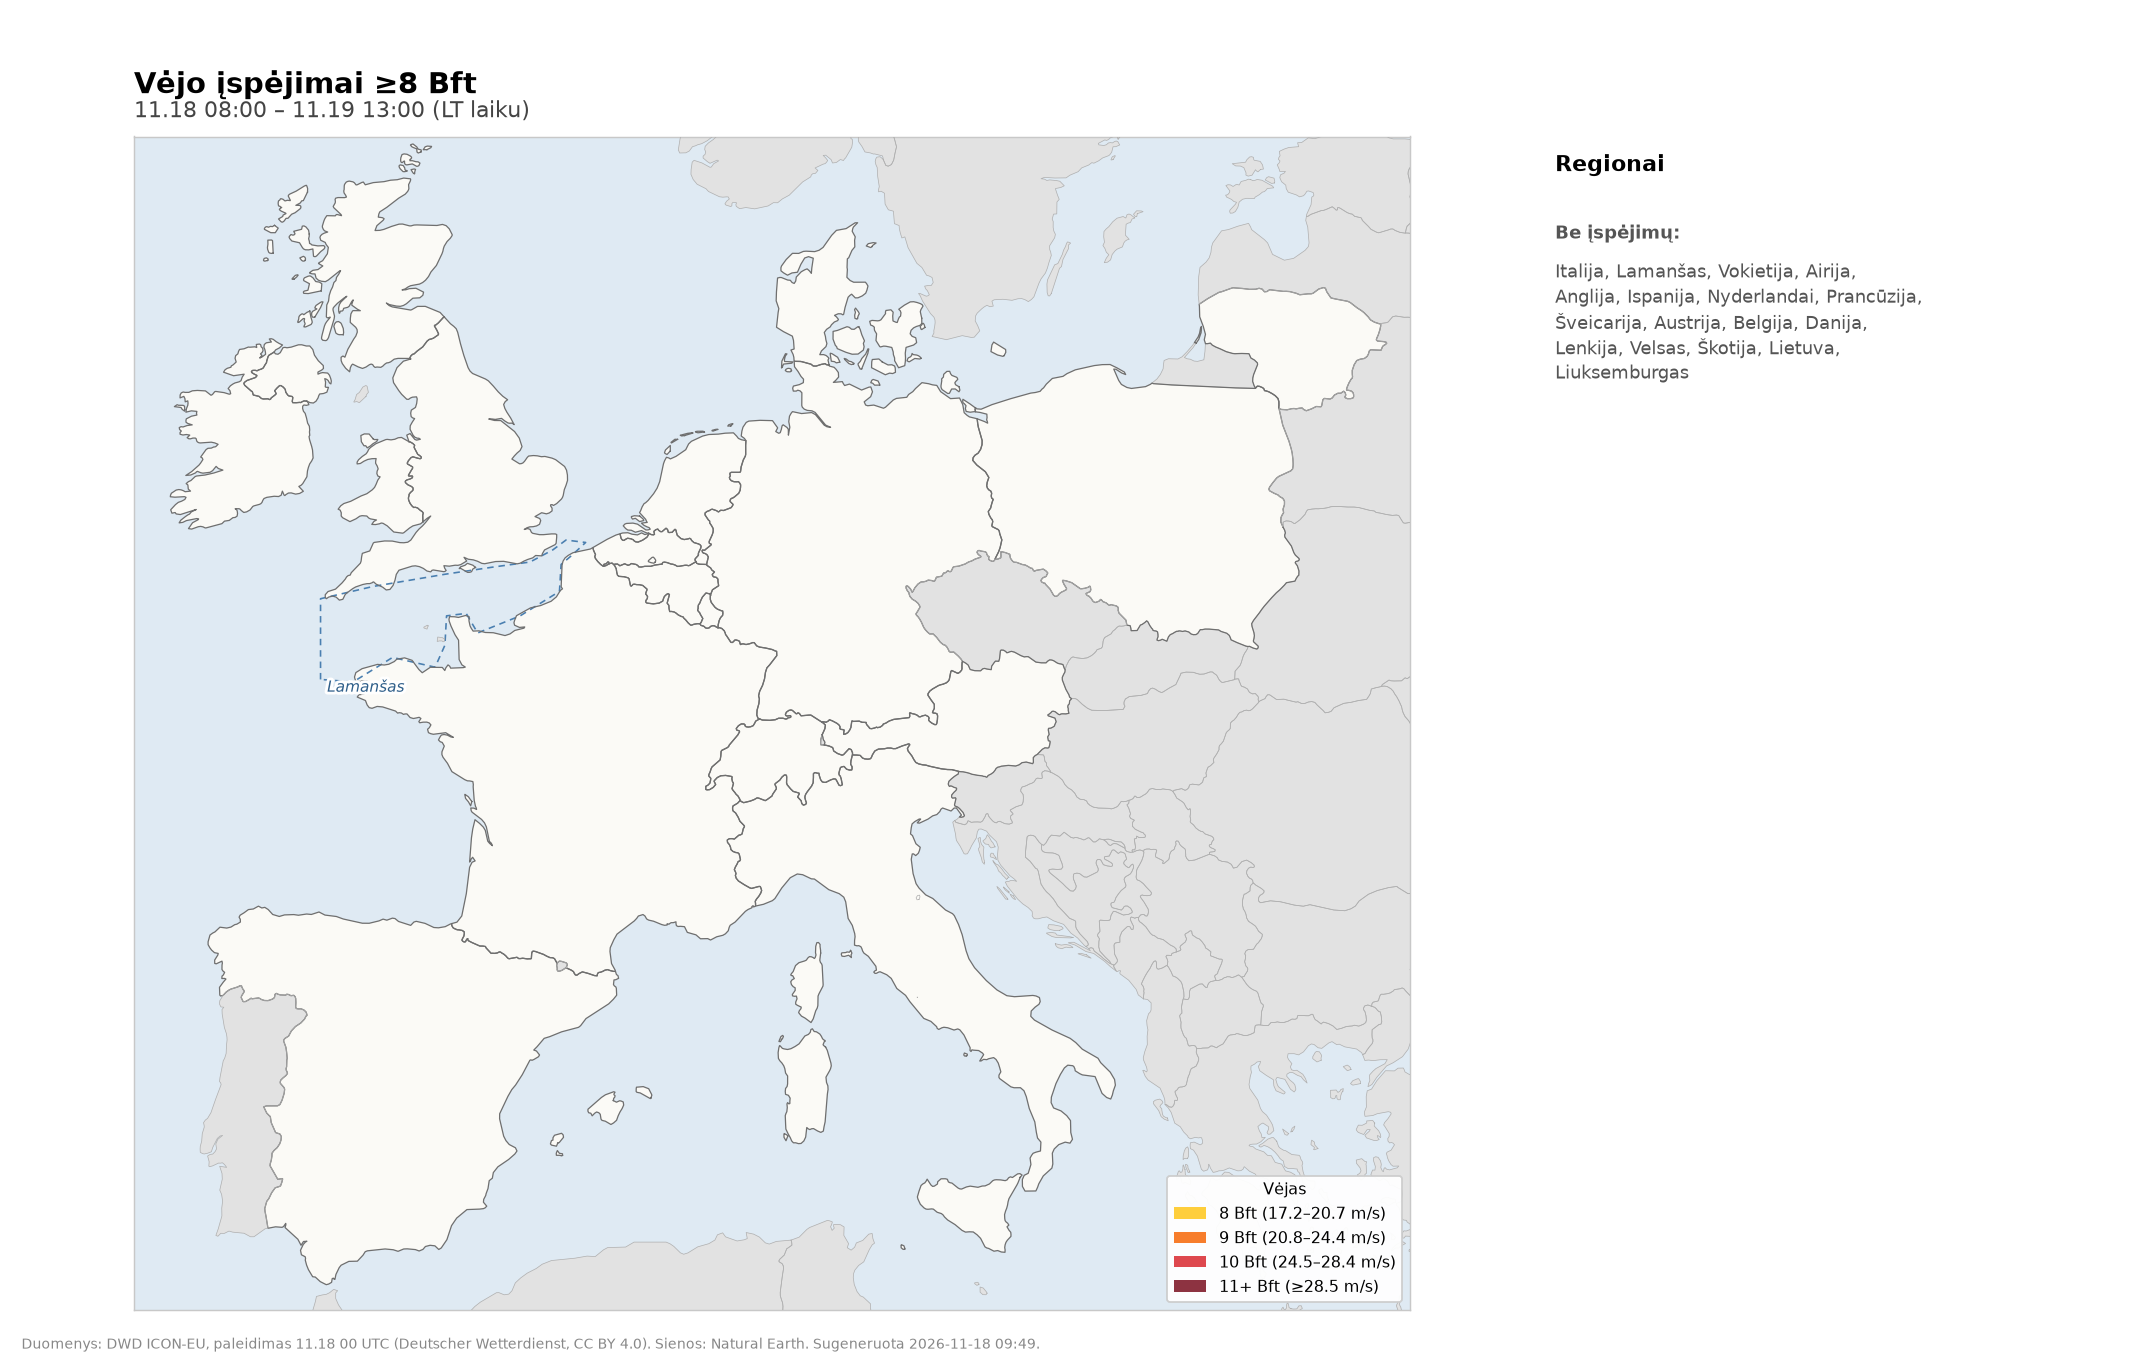
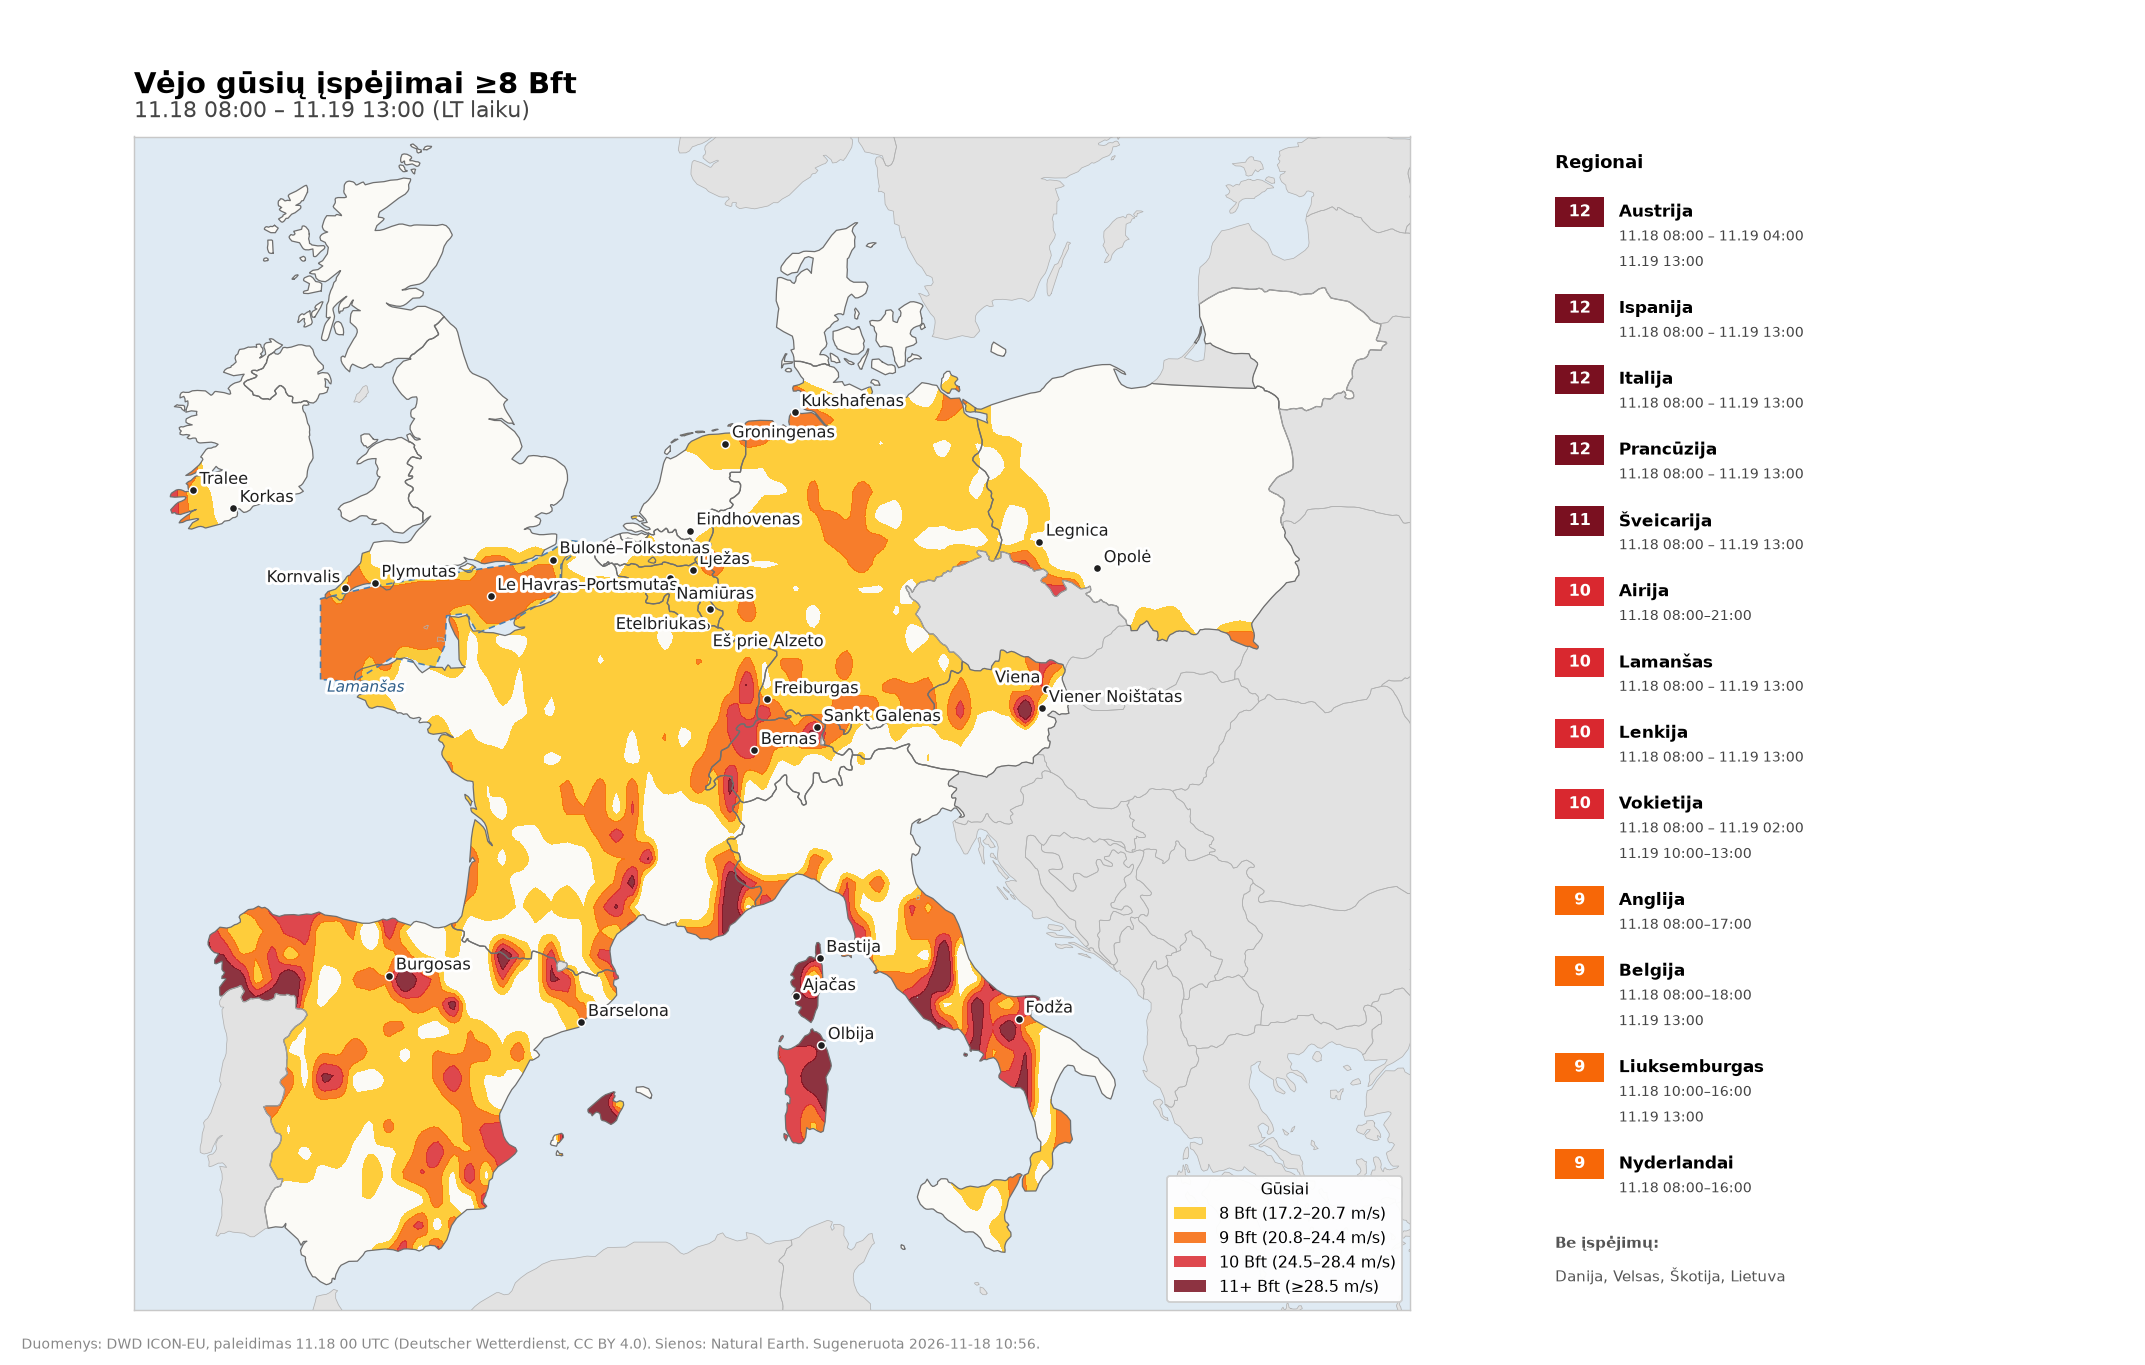
Vėjo įspėjimai 2026-11-18

diff --git a/output/vejo_ispejimai.html b/output/vejo_ispejimai.html
@@ -1,1 +1,1 @@
-<p style="font-family:Arial,sans-serif;font-size:14px"><b>Vėjo įspėjimai ≥8 Bft</b><br>Laikotarpis: 11.18 08:00 – 11.19 13:00 (LT laiku)</p><p style="font-family:Arial,sans-serif">Laikotarpiu vėjas nesieks 8 Bft nė viename regione.</p><p style="font-family:Arial,sans-serif;font-size:11px;color:#888">Duomenys: DWD ICON-EU, paleidimas 11.18 00 UTC (Deutscher Wetterdienst, CC BY 4.0). Sienos: Natural Earth. Sugeneruota 2026-11-18 09:49.</p>
+<p style="font-family:Arial,sans-serif;font-size:14px"><b>Vėjo gūsių įspėjimai ≥8 Bft</b><br>Laikotarpis: 11.18 08:00 – 11.19 13:00 (LT laiku)</p><table style="border-collapse:collapse;font-family:Arial,sans-serif;font-size:13px"><tr style="background:#f3f3f3"><th style="padding:6px 10px;border:1px solid #ddd;text-align:left">Regionas</th><th style="padding:6px 10px;border:1px solid #ddd;text-align:left">Gūsiai</th><th style="padding:6px 10px;border:1px solid #ddd;text-align:left">Laikotarpis</th><th style="padding:6px 10px;border:1px solid #ddd;text-align:left">Vietos</th></tr><tr><td rowspan="1" style="padding:6px 10px;border:1px solid #ddd;font-weight:bold;vertical-align:top">Ispanija</td><td style="padding:6px 10px;border:1px solid #ddd;background:#7a1020;color:#fff;font-weight:bold;text-align:center;white-space:nowrap">12 Bft<br><span style="font-weight:normal;font-size:11px">38 m/s</span></td><td style="padding:6px 10px;border:1px solid #ddd;vertical-align:top">11.18 08:00 – 11.19 13:00 (prasideda anksčiau, tęsiasi ir vėliau)</td><td style="padding:6px 10px;border:1px solid #ddd;vertical-align:top"><b>Ispanija – didžioji dalis</b><br>&nbsp;&nbsp;Barselona – 12 Bft, 11.18 08:00–11.19 13:00<br>&nbsp;&nbsp;Burgosas – 12 Bft, 11.18 08:00–11.19 13:00<br>&nbsp;&nbsp;Ourensas – 12 Bft, 11.18 08:00–11.19 13:00<br>&nbsp;&nbsp;Soria – 12 Bft, 11.18 08:00–11.19 13:00<br>&nbsp;&nbsp;Uesca – 12 Bft, 11.18 08:00–11.19 13:00<br>&nbsp;&nbsp;Kuenka – 11 Bft, 11.18 08:00–11.19 13:00<br>&nbsp;&nbsp;+32 kitos vietos</td></tr><tr><td rowspan="1" style="padding:6px 10px;border:1px solid #ddd;font-weight:bold;vertical-align:top">Prancūzija</td><td style="padding:6px 10px;border:1px solid #ddd;background:#7a1020;color:#fff;font-weight:bold;text-align:center;white-space:nowrap">12 Bft<br><span style="font-weight:normal;font-size:11px">37 m/s</span></td><td style="padding:6px 10px;border:1px solid #ddd;vertical-align:top">11.18 08:00 – 11.19 13:00 (prasideda anksčiau, tęsiasi ir vėliau)</td><td style="padding:6px 10px;border:1px solid #ddd;vertical-align:top"><b>Pietryčių Prancūzija</b><br>&nbsp;&nbsp;Ajačas (Korsika) – 12 Bft, 11.18 08:00–11.19 13:00<br>&nbsp;&nbsp;Bastija (Korsika) – 12 Bft, 11.18 08:00–11.19 13:00<br>&nbsp;&nbsp;Nica – 12 Bft, 11.18 08:00–11.19 13:00<br><b>Šiaurės rytų Prancūzija</b><br>&nbsp;&nbsp;Bezansonas – 11 Bft, 11.18 08:00–11.19 13:00<br>&nbsp;&nbsp;Strasbūras – 11 Bft, 11.18 08:00–11.19 13:00<br><b>Pietų Prancūzija</b><br>&nbsp;&nbsp;Monpeljė – 11 Bft, 11.18 08:00–11.19 13:00<br>&nbsp;&nbsp;+36 kitos vietos</td></tr><tr><td rowspan="2" style="padding:6px 10px;border:1px solid #ddd;font-weight:bold;vertical-align:top">Austrija</td><td style="padding:6px 10px;border:1px solid #ddd;background:#7a1020;color:#fff;font-weight:bold;text-align:center;white-space:nowrap">12 Bft<br><span style="font-weight:normal;font-size:11px">39 m/s</span></td><td style="padding:6px 10px;border:1px solid #ddd;vertical-align:top">11.18 08:00 – 11.19 04:00 (prasideda anksčiau)</td><td style="padding:6px 10px;border:1px solid #ddd;vertical-align:top"><b>Austrija – didžioji dalis</b><br>&nbsp;&nbsp;Viener Noištatas – 12 Bft, 11.18 08:00–11.19 04:00<br>&nbsp;&nbsp;Welsas – 10 Bft, 11.18 08:00–11.19 01:00<br>&nbsp;&nbsp;Viena – 10 Bft, 11.18 10:00–16:00<br>&nbsp;&nbsp;Bregencas – 9 Bft, 11.18 08:00–18:00<br>&nbsp;&nbsp;Sankt Pöltenas – 9 Bft, 11.18 11:00–17:00<br>&nbsp;&nbsp;Insbrukas – 9 Bft, 11.18 13:00–19:00<br>&nbsp;&nbsp;+7 kitos vietos</td></tr><tr><td style="padding:6px 10px;border:1px solid #ddd;background:#ffc61a;color:#3d2c00;font-weight:bold;text-align:center;white-space:nowrap">8 Bft<br><span style="font-weight:normal;font-size:11px">21 m/s</span></td><td style="padding:6px 10px;border:1px solid #ddd;vertical-align:top">11.19 13:00 (tęsiasi ir vėliau)</td><td style="padding:6px 10px;border:1px solid #ddd;vertical-align:top"><b>Vakarų Austrija</b><br>&nbsp;&nbsp;Bregencas – 8 Bft, 11.19 13:00<br><b>Rytų Austrija</b><br>&nbsp;&nbsp;Viener Noištatas – 8 Bft, 11.19 13:00</td></tr><tr><td rowspan="1" style="padding:6px 10px;border:1px solid #ddd;font-weight:bold;vertical-align:top">Italija</td><td style="padding:6px 10px;border:1px solid #ddd;background:#7a1020;color:#fff;font-weight:bold;text-align:center;white-space:nowrap">12 Bft<br><span style="font-weight:normal;font-size:11px">40 m/s</span></td><td style="padding:6px 10px;border:1px solid #ddd;vertical-align:top">11.18 08:00 – 11.19 13:00 (prasideda anksčiau, tęsiasi ir vėliau)</td><td style="padding:6px 10px;border:1px solid #ddd;vertical-align:top"><b>Italija – didžioji dalis</b><br>&nbsp;&nbsp;Fodža – 12 Bft, 11.18 08:00–11.19 13:00<br>&nbsp;&nbsp;Olbija – 12 Bft, 11.18 08:00–11.19 13:00<br>&nbsp;&nbsp;Perudža – 12 Bft, 11.18 08:00–11.19 13:00<br>&nbsp;&nbsp;Peskara – 12 Bft, 11.18 08:00–11.19 13:00<br>&nbsp;&nbsp;Roma – 12 Bft, 11.18 08:00–11.19 13:00<br>&nbsp;&nbsp;Salernas – 11 Bft, 11.18 09:00–11.19 13:00<br>&nbsp;&nbsp;+16 kitos vietos</td></tr><tr><td rowspan="1" style="padding:6px 10px;border:1px solid #ddd;font-weight:bold;vertical-align:top">Šveicarija</td><td style="padding:6px 10px;border:1px solid #ddd;background:#7a1020;color:#fff;font-weight:bold;text-align:center;white-space:nowrap">11 Bft<br><span style="font-weight:normal;font-size:11px">33 m/s</span></td><td style="padding:6px 10px;border:1px solid #ddd;vertical-align:top">11.18 08:00 – 11.19 13:00 (prasideda anksčiau, tęsiasi ir vėliau)</td><td style="padding:6px 10px;border:1px solid #ddd;vertical-align:top"><b>Šveicarija – didžioji dalis</b><br>&nbsp;&nbsp;Bernas – 11 Bft, 11.18 08:00–11.19 13:00<br>&nbsp;&nbsp;Sankt Galenas – 11 Bft, 11.18 08:00–11.19 13:00<br>&nbsp;&nbsp;Liucerna – 9 Bft, 11.18 08:00–11.19 13:00<br>&nbsp;&nbsp;Lozana – 9 Bft, 11.18 08:00–11.19 13:00<br>&nbsp;&nbsp;Oltenas – 9 Bft, 11.18 12:00–11.19 13:00<br>&nbsp;&nbsp;Ciurichas – 9 Bft, 11.18 14:00–11.19 13:00<br>&nbsp;&nbsp;+7 kitos vietos</td></tr><tr><td rowspan="1" style="padding:6px 10px;border:1px solid #ddd;font-weight:bold;vertical-align:top">Airija</td><td style="padding:6px 10px;border:1px solid #ddd;background:#d9282f;color:#fff;font-weight:bold;text-align:center;white-space:nowrap">10 Bft<br><span style="font-weight:normal;font-size:11px">26 m/s</span></td><td style="padding:6px 10px;border:1px solid #ddd;vertical-align:top">11.18 08:00 – 11.18 21:00 (prasideda anksčiau)</td><td style="padding:6px 10px;border:1px solid #ddd;vertical-align:top"><b>Pietvakarių Airija</b><br>&nbsp;&nbsp;Tralee – 10 Bft, 11.18 08:00–21:00<br><b>Pietų Airija</b><br>&nbsp;&nbsp;Korkas – 8 Bft, 11.18 08:00–14:00</td></tr><tr><td rowspan="2" style="padding:6px 10px;border:1px solid #ddd;font-weight:bold;vertical-align:top">Vokietija</td><td style="padding:6px 10px;border:1px solid #ddd;background:#d9282f;color:#fff;font-weight:bold;text-align:center;white-space:nowrap">10 Bft<br><span style="font-weight:normal;font-size:11px">25 m/s</span></td><td style="padding:6px 10px;border:1px solid #ddd;vertical-align:top">11.18 08:00 – 11.19 02:00 (prasideda anksčiau)</td><td style="padding:6px 10px;border:1px solid #ddd;vertical-align:top"><b>Vokietija – didžioji dalis</b><br>&nbsp;&nbsp;Freiburgas – 10 Bft, 11.18 08:00–22:00<br>&nbsp;&nbsp;Kukshafenas – 10 Bft, 11.18 11:00–17:00<br>&nbsp;&nbsp;Emdenas – 9 Bft, 11.18 08:00–17:00<br>&nbsp;&nbsp;Erfurtas – 9 Bft, 11.18 08:00–11.19 01:00<br>&nbsp;&nbsp;Fiusenas – 9 Bft, 11.18 08:00–22:00<br>&nbsp;&nbsp;Getingenas – 9 Bft, 11.18 08:00–22:00<br>&nbsp;&nbsp;+29 kitos vietos</td></tr><tr><td style="padding:6px 10px;border:1px solid #ddd;background:#d9282f;color:#fff;font-weight:bold;text-align:center;white-space:nowrap">10 Bft<br><span style="font-weight:normal;font-size:11px">27 m/s</span></td><td style="padding:6px 10px;border:1px solid #ddd;vertical-align:top">11.19 10:00 – 11.19 13:00 (tęsiasi ir vėliau)</td><td style="padding:6px 10px;border:1px solid #ddd;vertical-align:top"><b>Pietvakarių Vokietija</b><br>&nbsp;&nbsp;Freiburgas – 10 Bft, 11.19 10:00–13:00<br>&nbsp;&nbsp;Štutgartas – 9 Bft, 11.19 12:00–13:00<br>&nbsp;&nbsp;Saarbriukenas – 8 Bft, 11.19 13:00<br><b>Pietų Vokietija</b><br>&nbsp;&nbsp;Fiusenas – 8 Bft, 11.19 13:00<br>&nbsp;&nbsp;Ulmas – 8 Bft, 11.19 13:00</td></tr><tr><td rowspan="1" style="padding:6px 10px;border:1px solid #ddd;font-weight:bold;vertical-align:top">Lenkija</td><td style="padding:6px 10px;border:1px solid #ddd;background:#d9282f;color:#fff;font-weight:bold;text-align:center;white-space:nowrap">10 Bft<br><span style="font-weight:normal;font-size:11px">26 m/s</span></td><td style="padding:6px 10px;border:1px solid #ddd;vertical-align:top">11.18 08:00 – 11.19 13:00 (prasideda anksčiau, tęsiasi ir vėliau)</td><td style="padding:6px 10px;border:1px solid #ddd;vertical-align:top"><b>Lenkija – didžioji dalis</b><br>&nbsp;&nbsp;Legnica – 10 Bft, 11.18 08:00–11.19 13:00<br>&nbsp;&nbsp;Opolė – 10 Bft, 11.18 08:00–11.19 10:00<br>&nbsp;&nbsp;Žešuvas – 9 Bft, 11.18 09:00–16:00<br>&nbsp;&nbsp;Katovicai – 8 Bft, 11.18 11:00<br>&nbsp;&nbsp;Krokuva – 8 Bft, 11.18 12:00–14:00<br>&nbsp;&nbsp;Zielona Gura – 8 Bft, 11.18 20:00–11.19 00:00<br>&nbsp;&nbsp;+3 kitos vietos</td></tr><tr><td rowspan="1" style="padding:6px 10px;border:1px solid #ddd;font-weight:bold;vertical-align:top">Lamanšas</td><td style="padding:6px 10px;border:1px solid #ddd;background:#d9282f;color:#fff;font-weight:bold;text-align:center;white-space:nowrap">10 Bft<br><span style="font-weight:normal;font-size:11px">25 m/s</span></td><td style="padding:6px 10px;border:1px solid #ddd;vertical-align:top">11.18 08:00 – 11.19 13:00 (prasideda anksčiau, tęsiasi ir vėliau)</td><td style="padding:6px 10px;border:1px solid #ddd;vertical-align:top"><b>Vakarinis Lamanšas</b><br>&nbsp;&nbsp;Le Havras–Portsmutas – 10 Bft, 11.18 08:00–11.19 13:00<br>&nbsp;&nbsp;Laimo įlanka – 9 Bft, 11.18 08:00–11.19 00:00<br>&nbsp;&nbsp;Normandijos salos – 9 Bft, 11.18 08:00–11.19 13:00<br>&nbsp;&nbsp;Roskofas–Plimutas – 9 Bft, 11.18 08:00–11.19 13:00<br><b>Rytinis Lamanšas</b><br>&nbsp;&nbsp;Bulonė–Folkstonas – 9 Bft, 11.18 08:00–20:00<br>&nbsp;&nbsp;Djepas–Nyhavenas – 9 Bft, 11.18 08:00–20:00<br>&nbsp;&nbsp;+4 kitos vietos</td></tr><tr><td rowspan="1" style="padding:6px 10px;border:1px solid #ddd;font-weight:bold;vertical-align:top">Anglija</td><td style="padding:6px 10px;border:1px solid #ddd;background:#f76707;color:#fff;font-weight:bold;text-align:center;white-space:nowrap">9 Bft<br><span style="font-weight:normal;font-size:11px">21 m/s</span></td><td style="padding:6px 10px;border:1px solid #ddd;vertical-align:top">11.18 08:00 – 11.18 17:00 (prasideda anksčiau)</td><td style="padding:6px 10px;border:1px solid #ddd;vertical-align:top"><b>Pietvakarių Anglija</b><br>&nbsp;&nbsp;Plymutas – 9 Bft, 11.18 08:00–17:00<br>&nbsp;&nbsp;Kornvalis – 8 Bft, 11.18 08:00–15:00</td></tr><tr><td rowspan="1" style="padding:6px 10px;border:1px solid #ddd;font-weight:bold;vertical-align:top">Nyderlandai</td><td style="padding:6px 10px;border:1px solid #ddd;background:#f76707;color:#fff;font-weight:bold;text-align:center;white-space:nowrap">9 Bft<br><span style="font-weight:normal;font-size:11px">21 m/s</span></td><td style="padding:6px 10px;border:1px solid #ddd;vertical-align:top">11.18 08:00 – 11.18 16:00 (prasideda anksčiau)</td><td style="padding:6px 10px;border:1px solid #ddd;vertical-align:top"><b>Nyderlandai – didžioji dalis</b><br>&nbsp;&nbsp;Groningenas – 9 Bft, 11.18 10:00–16:00<br>&nbsp;&nbsp;Zvolė – 8 Bft, 11.18 08:00<br>&nbsp;&nbsp;Leuvardenas – 8 Bft, 11.18 11:00–15:00<br>&nbsp;&nbsp;Venlo – 8 Bft, 11.18 11:00–12:00<br>&nbsp;&nbsp;Eindhovenas – 8 Bft, 11.18 12:00–13:00<br>&nbsp;&nbsp;Mastrichtas – 8 Bft, 11.18 12:00–16:00</td></tr><tr><td rowspan="2" style="padding:6px 10px;border:1px solid #ddd;font-weight:bold;vertical-align:top">Belgija</td><td style="padding:6px 10px;border:1px solid #ddd;background:#f76707;color:#fff;font-weight:bold;text-align:center;white-space:nowrap">9 Bft<br><span style="font-weight:normal;font-size:11px">21 m/s</span></td><td style="padding:6px 10px;border:1px solid #ddd;vertical-align:top">11.18 08:00 – 11.18 18:00 (prasideda anksčiau)</td><td style="padding:6px 10px;border:1px solid #ddd;vertical-align:top"><b>Belgija – didžioji dalis</b><br>&nbsp;&nbsp;Lježas – 9 Bft, 11.18 12:00–17:00<br>&nbsp;&nbsp;Namiūras – 9 Bft, 11.18 12:00–16:00<br>&nbsp;&nbsp;Arlonas – 8 Bft, 11.18 08:00–17:00<br>&nbsp;&nbsp;Bastonė – 8 Bft, 11.18 08:00–18:00<br>&nbsp;&nbsp;Briuselis – 8 Bft, 11.18 12:00–16:00<br>&nbsp;&nbsp;Hasseltas – 8 Bft, 11.18 12:00–16:00<br>&nbsp;&nbsp;+3 kitos vietos</td></tr><tr><td style="padding:6px 10px;border:1px solid #ddd;background:#ffc61a;color:#3d2c00;font-weight:bold;text-align:center;white-space:nowrap">8 Bft<br><span style="font-weight:normal;font-size:11px">18 m/s</span></td><td style="padding:6px 10px;border:1px solid #ddd;vertical-align:top">11.19 13:00 (tęsiasi ir vėliau)</td><td style="padding:6px 10px;border:1px solid #ddd;vertical-align:top"><b>Pietryčių Belgija</b><br>&nbsp;&nbsp;Bastonė – 8 Bft, 11.19 13:00</td></tr><tr><td rowspan="2" style="padding:6px 10px;border:1px solid #ddd;font-weight:bold;vertical-align:top">Liuksemburgas</td><td style="padding:6px 10px;border:1px solid #ddd;background:#f76707;color:#fff;font-weight:bold;text-align:center;white-space:nowrap">9 Bft<br><span style="font-weight:normal;font-size:11px">21 m/s</span></td><td style="padding:6px 10px;border:1px solid #ddd;vertical-align:top">11.18 10:00 – 11.18 16:00</td><td style="padding:6px 10px;border:1px solid #ddd;vertical-align:top"><b>Liuksemburgas</b><br>&nbsp;&nbsp;Eš prie Alzeto – 9 Bft, 11.18 11:00–16:00<br>&nbsp;&nbsp;Klervo – 8 Bft, 11.18 10:00–11:00<br>&nbsp;&nbsp;Liuksemburgas (m.) – 8 Bft, 11.18 10:00–14:00<br>&nbsp;&nbsp;Etelbriukas – 8 Bft, 11.18 11:00–15:00</td></tr><tr><td style="padding:6px 10px;border:1px solid #ddd;background:#ffc61a;color:#3d2c00;font-weight:bold;text-align:center;white-space:nowrap">8 Bft<br><span style="font-weight:normal;font-size:11px">17 m/s</span></td><td style="padding:6px 10px;border:1px solid #ddd;vertical-align:top">11.19 13:00 (tęsiasi ir vėliau)</td><td style="padding:6px 10px;border:1px solid #ddd;vertical-align:top"><b>Liuksemburgas</b><br>&nbsp;&nbsp;Eš prie Alzeto – 8 Bft, 11.19 13:00</td></tr></table><p style="font-family:Arial,sans-serif;font-size:13px;color:#555">Be įspėjimų: Škotija, Velsas, Danija, Lietuva</p><p style="font-family:Arial,sans-serif;font-size:11px;color:#888">Duomenys: DWD ICON-EU, paleidimas 11.18 00 UTC (Deutscher Wetterdienst, CC BY 4.0). Sienos: Natural Earth. Sugeneruota 2026-11-18 10:56.</p>
